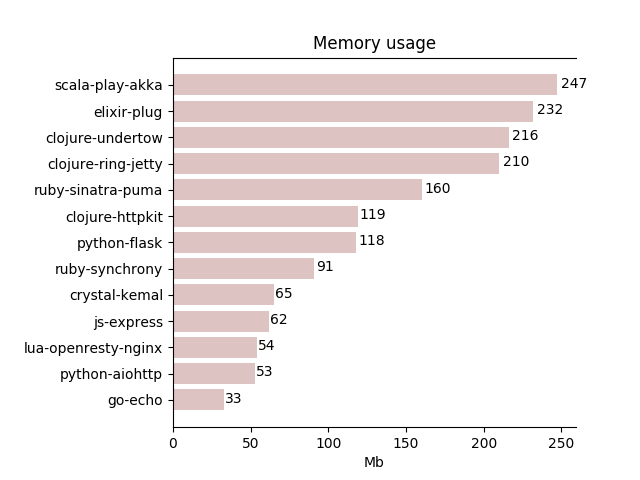
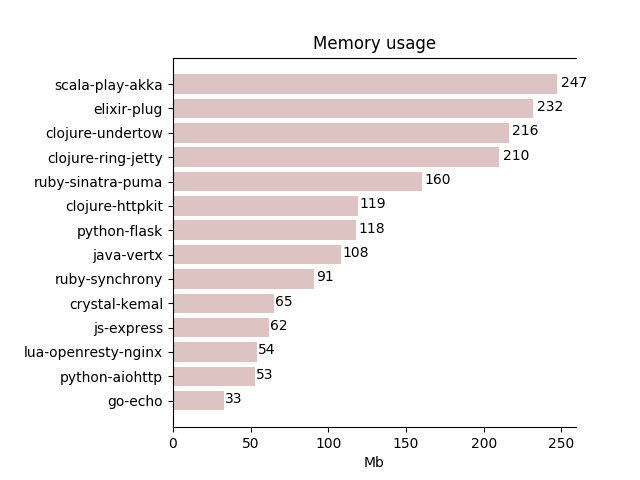
Add java vertx stats

Changed region(s): [[0.0312, 0.1875, 0.875, 0.8438], [0.875, 0.1562, 0.9375, 0.1875]]

diff --git a/plot.py b/plot.py
@@ -1,6 +1,7 @@
 import re
 import argparse
 from operator import itemgetter
+import os
 import os.path
 from functools import partial
 
@@ -52,6 +53,8 @@ def create_chart(data, outdir, name, endpoint='/db', stat_name='reqs', legend='R
     plt.title(name)
     plt.subplots_adjust(left=0.27)
     plt.gca().spines['right'].set_visible(False)
+    if not os.path.exists(outdir):
+        os.makedirs(outdir)
     plt.savefig(os.path.join(outdir, name.replace(' ', '_') + '.png'), transparent=False)
     plt.cla()
     plt.clf()

diff --git a/_results/benchmark-results-json-2sec.md b/_results/benchmark-results-json-2sec.md
@@ -306,3 +306,26 @@ Results:
 | Test command                    | wrk -t12 -c400 -d240s http://localhost:8080/json -s wrk_report.lua --timeout 10s  |
 | Data read                       | 240.89MB  |
 ==========================
+
+
+==========================
+Date: Fri Mar 20 11:29:25 2020
+Results:
+
+| Param                           | Value |
+| :---                            | :--- |
+| Framework                       | java-vertx |
+| Endpoint                        | /json  |
+| Endpoint sleep sec. (if applicable) | 2  |
+| Requests/sec                    | 5828.84 |
+| Req. Latency (Avg.)             | 66.54ms |
+| Req. Latency (%'le - latency)   | [('50', '0.064'), ('70', '0.068'), ('90', '0.080'), ('99', '0.126'), ('99.9', '0.180'), ('99.999', '0.250')] |
+| 5xx/4xx responses               | 0 |
+| N timeout-ed                    | 0  |
+| Memory used (mean), Mib         | 98 |
+| Memory used samples, Mib        | [98, 98, 98, 98, 98] |
+| CPU used (mean), %              | 91 |
+| CPU used samples, %             | [87.5, 93.8, 93.8, 94.1, 87.5] |
+| Test command                    | wrk -t12 -c400 -d240s http://localhost:8080/json -s wrk_report.lua --timeout 10s  |
+| Data read                       | 493.98MB  |
+==========================

diff --git a/_results/benchmark-results-db-0sec.md b/_results/benchmark-results-db-0sec.md
@@ -284,3 +284,25 @@ Results:
 | Test command                    | wrk -t12 -c400 -d240s http://localhost:8080/db -s wrk_report.lua --timeout 10s  |
 | Data read                       | 1.45GB  |
 ==========================
+
+==========================
+Date: Fri Mar 20 21:06:21 2020
+Results:
+
+| Param                           | Value |
+| :---                            | :--- |
+| Framework                       | java-vertx |
+| Endpoint                        | /db  |
+| Endpoint sleep sec. (if applicable) | 0.0  |
+| Requests/sec                    | 473.13 |
+| Req. Latency (Avg.)             | 804.25ms |
+| Req. Latency (%'le - latency)   | [('50', '0.803'), ('70', '0.901'), ('90', '1.063'), ('99', '1.413'), ('99.9', '1.858'), ('99.999', '2.347')] |
+| 5xx/4xx responses               | 0 |
+| N timeout-ed                    | 0  |
+| Memory used (mean), Mib         | 108 |
+| Memory used samples, Mib        | [108, 108, 108, 108, 108] |
+| CPU used (mean), %              | 85 |
+| CPU used samples, %             | [93.8, 68.8, 93.8, 81.2, 87.5] |
+| Test command                    | wrk -t12 -c400 -d240s http://localhost:8080/db -s wrk_report.lua --timeout 10s  |
+| Data read                       | 3.18GB  |
+==========================

diff --git a/_results/benchmark-results-db-2sec.md b/_results/benchmark-results-db-2sec.md
@@ -283,3 +283,26 @@ Results:
 | Test command                    | wrk -t12 -c400 -d240s http://localhost:8080/db -s wrk_report.lua --timeout 10s  |
 | Data read                       | 546.73MB  |
 ==========================
+
+
+==========================
+Date: Fri Mar 20 20:45:33 2020
+Results:
+
+| Param                           | Value |
+| :---                            | :--- |
+| Framework                       | java-vertx |
+| Endpoint                        | /db  |
+| Endpoint sleep sec. (if applicable) | 2.0  |
+| Requests/sec                    | 8.52 |
+| Req. Latency (Avg.)             | 7.88s |
+| Req. Latency (%'le - latency)   | [('50', '7.832'), ('70', '8.786'), ('90', '9.596'), ('99', '9.968'), ('99.9', '9.968'), ('99.999', '9.968')] |
+| 5xx/4xx responses               | 0 |
+| N timeout-ed                    | 1977  |
+| Memory used (mean), Mib         | 106 |
+| Memory used samples, Mib        | [105, 105, 107, 107, 107] |
+| CPU used (mean), %              | 1 |
+| CPU used samples, %             | [0.0, 0.0, 6.7, 0.0, 0.0] |
+| Test command                    | wrk -t12 -c400 -d240s http://localhost:8080/db -s wrk_report.lua --timeout 10s  |
+| Data read                       | 58.63MB  |
+==========================

diff --git a/README.md b/README.md
@@ -20,6 +20,7 @@
     - [Ruby. Sinatra. Puma.](#ruby-sinatra-puma)
     - [Lua. Openresty. Nginx.](#lua-openresty-nginx)
     - [Java. Webery.](#java-webery)
+    - [Java. Vertx.](#java-vertx)
   - [Mule script](#mule-script)
 
 
@@ -178,6 +179,13 @@ With async PG driver.
 - [Webery](github.com/wizzardo/webery)
 
 For DB uses custom async vert.x postgres driver
+
+
+### Java. Vertx.
+
+- [Vertx](https://vertx.io)
+
+For DB we use async vert.x postgres driver
 
 
 ## Mule script
